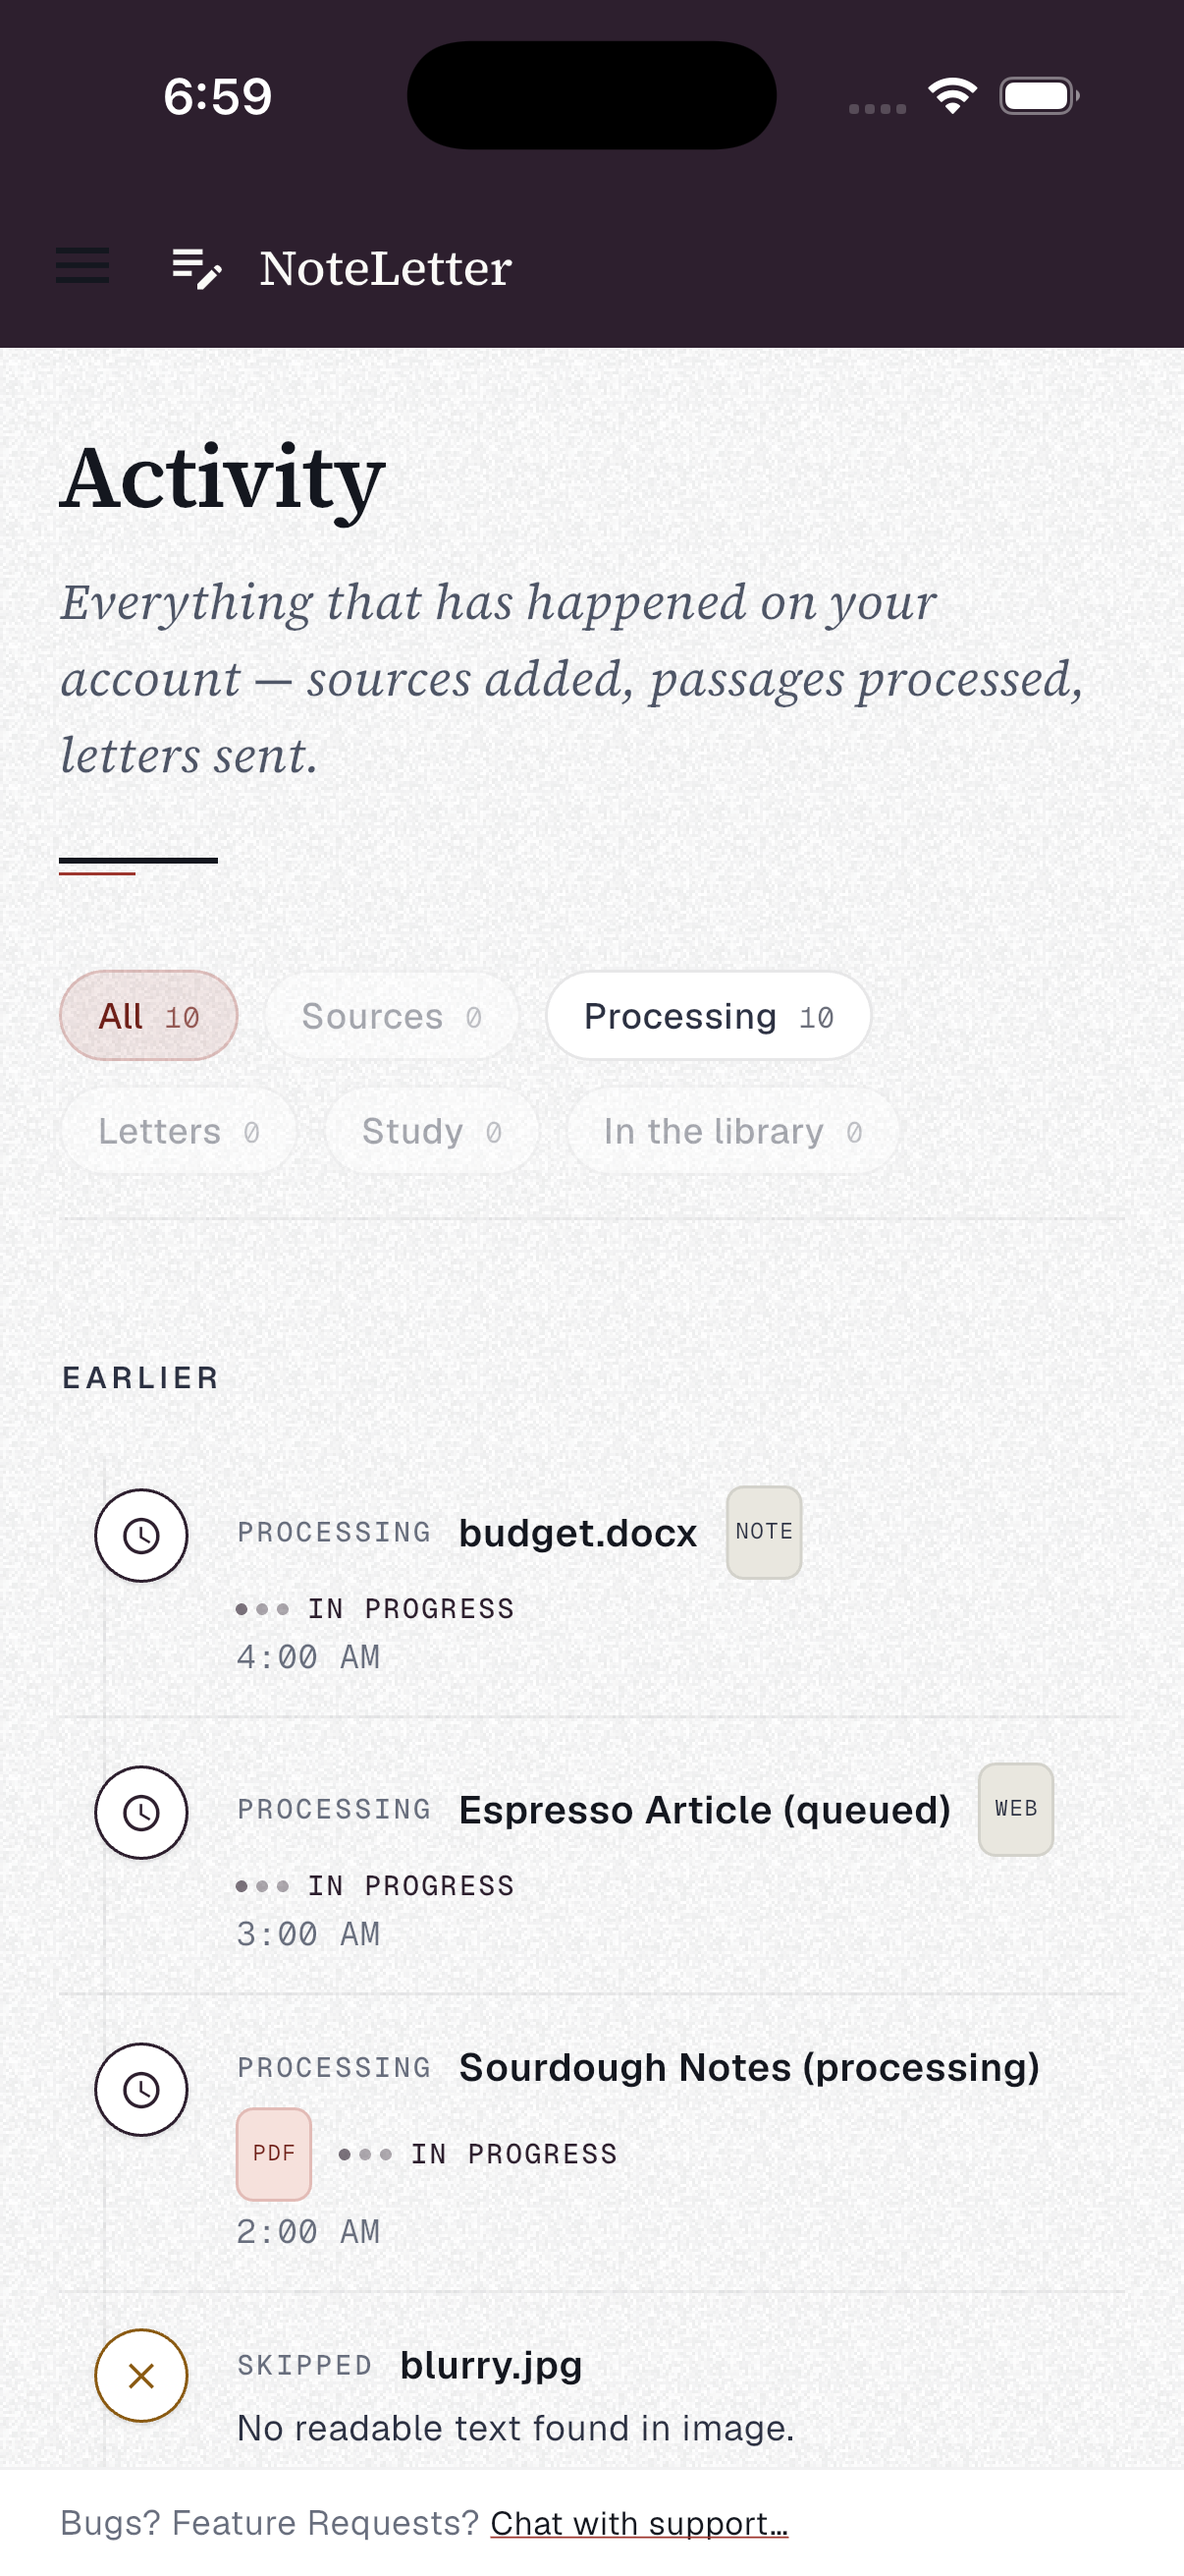
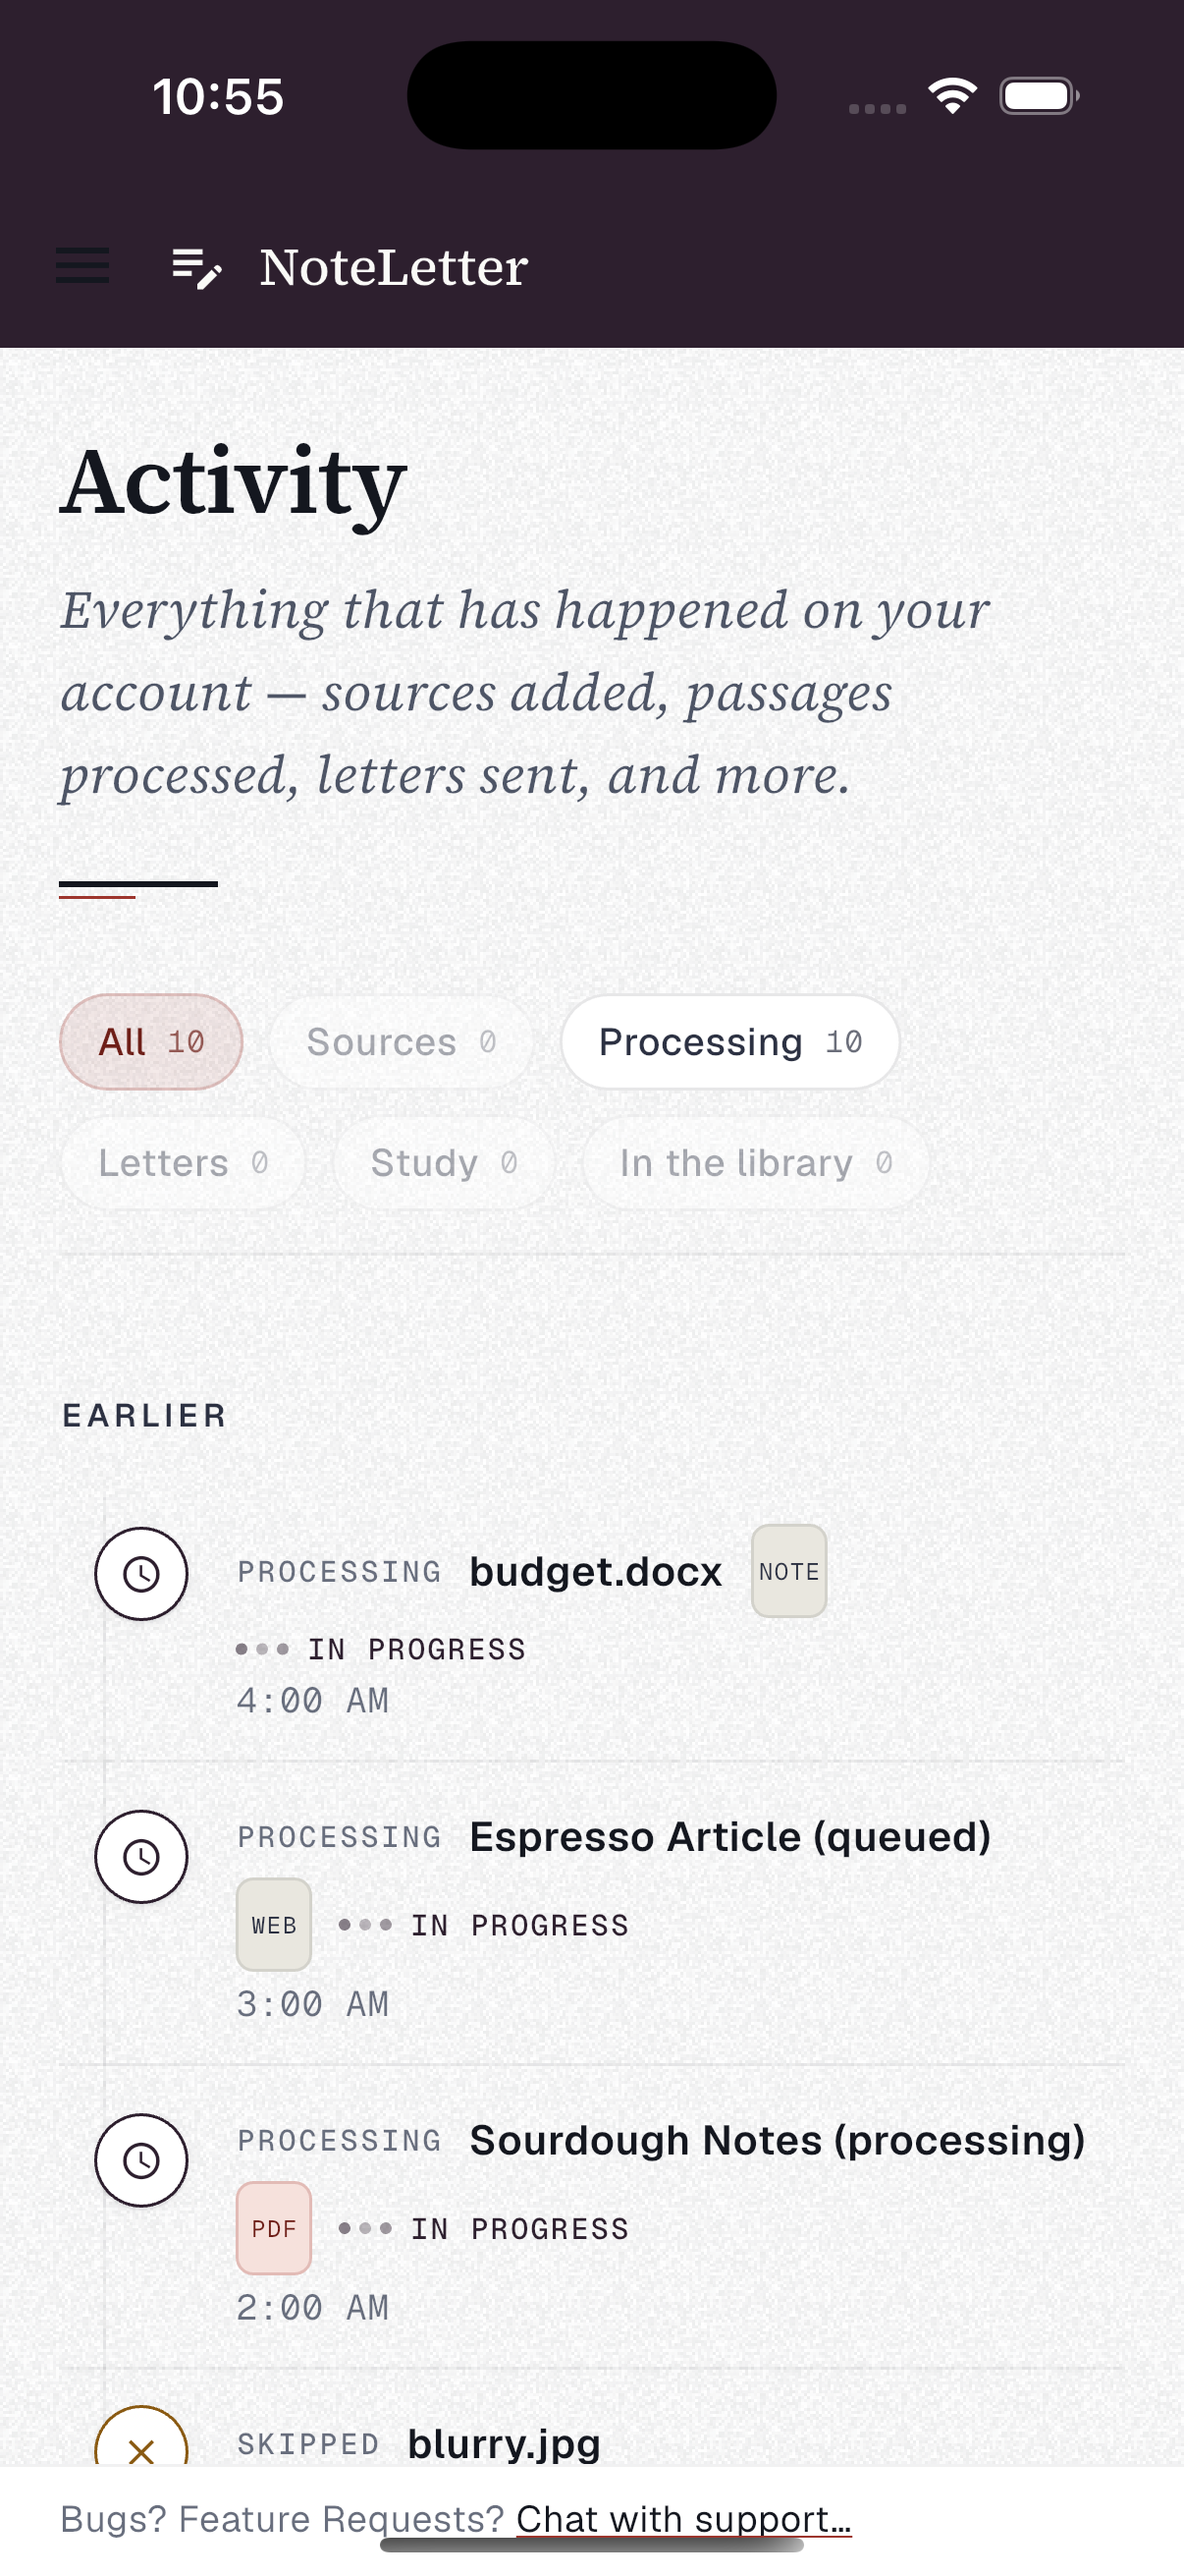
Activity: the standfirst ends as the reference's does ("…letters sent, and more.") (F-34/F-37 pass)
Pair read (light, dark, web phone): frame, chapter opening, filter chips,
day group and row anatomy match in both themes. Web frame shot 2026-09-18.

Gates: analyze clean · contract+kit 842 passed (pin excluded by policy)
       · pair activity light+dark refreshed
Pin stays 4.4.0.

Claude-Session: https://claude.ai/code/session_01WEYcyK1SsWKiesC6Pgdho6

diff --git a/lib/pages/activity_page.dart b/lib/pages/activity_page.dart
@@ -87,7 +87,8 @@ class _ActivityPageState extends State<ActivityPage> {
                 // italicising the whole title is not the same device.
                 title: 'Activity',
                 standfirst: 'Everything that has happened on your account — '
-                    'sources added, passages processed, letters sent.',
+                    'sources added, passages processed, letters sent, and '
+                    'more.',
               ),
 
               if (activity.isLoading && rows.isEmpty)
